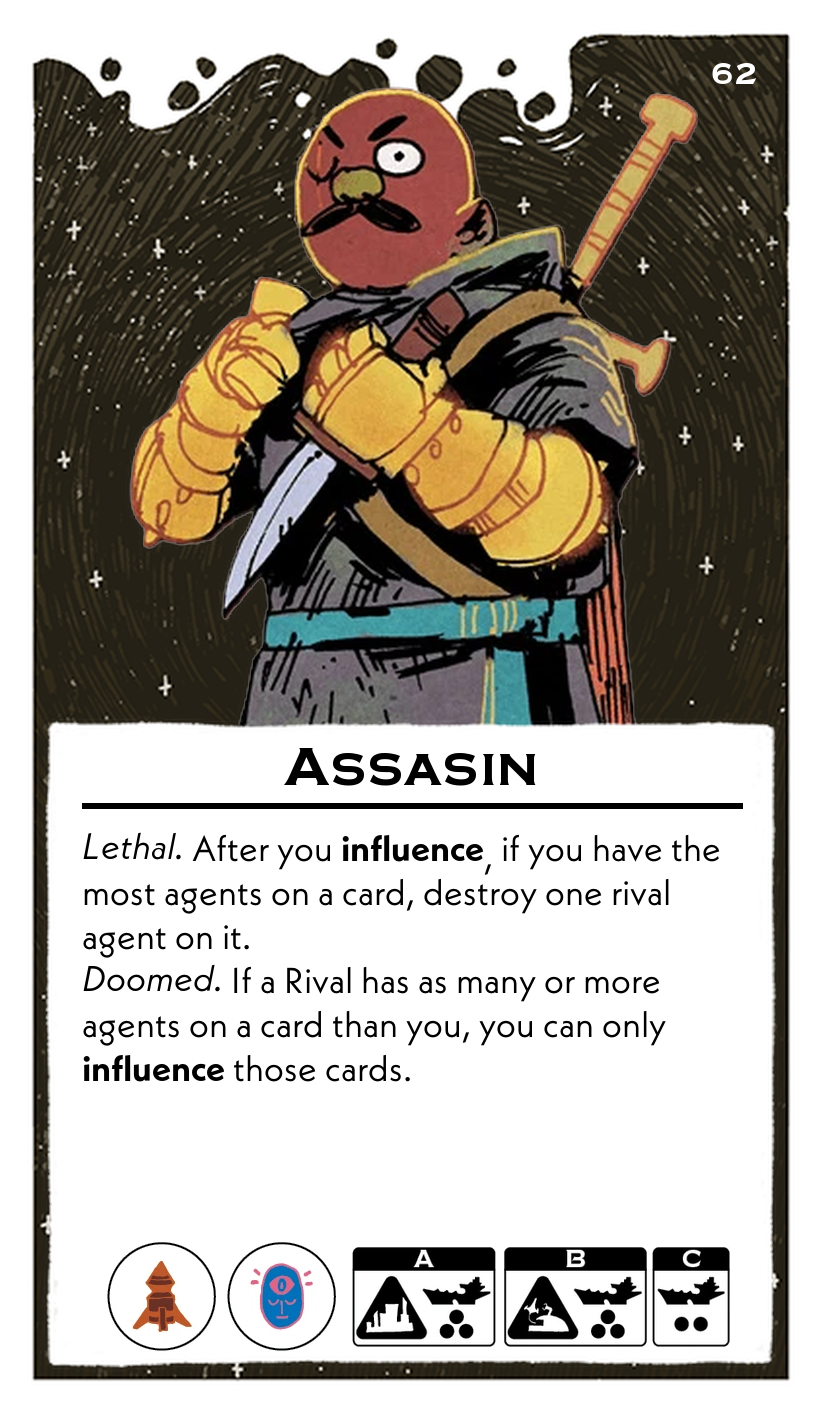
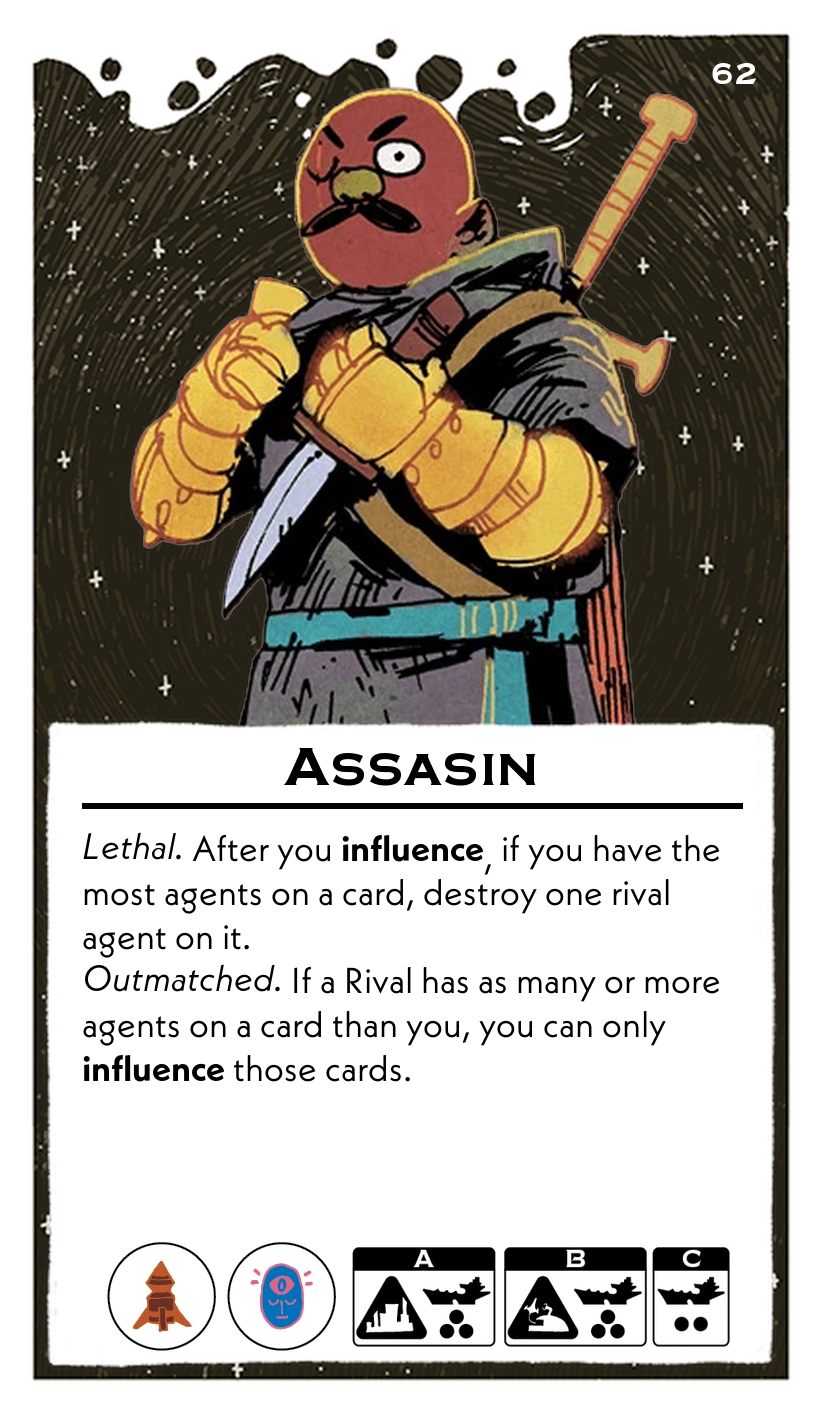
ass

Changed region(s): [[0.0912, 0.6846, 0.882, 0.7157]]

diff --git a/scripts/leadersFormatted.py b/scripts/leadersFormatted.py
@@ -947,7 +947,7 @@ leaders = [
         "name": "Assasin",
         "abilities": (
             "*Lethal.* After you **influence**, if you have the most agents on a card, destroy one rival agent on it.\n"
-            "*Doomed.* If a Rival has as many or more agents on a card than you, you can only **influence** those cards."
+            "*Outmatched.* If a Rival has as many or more agents on a card than you, you can only **influence** those cards."
         ),
         "resources": ["Weapon", "Psionic"],
         "setup": {
